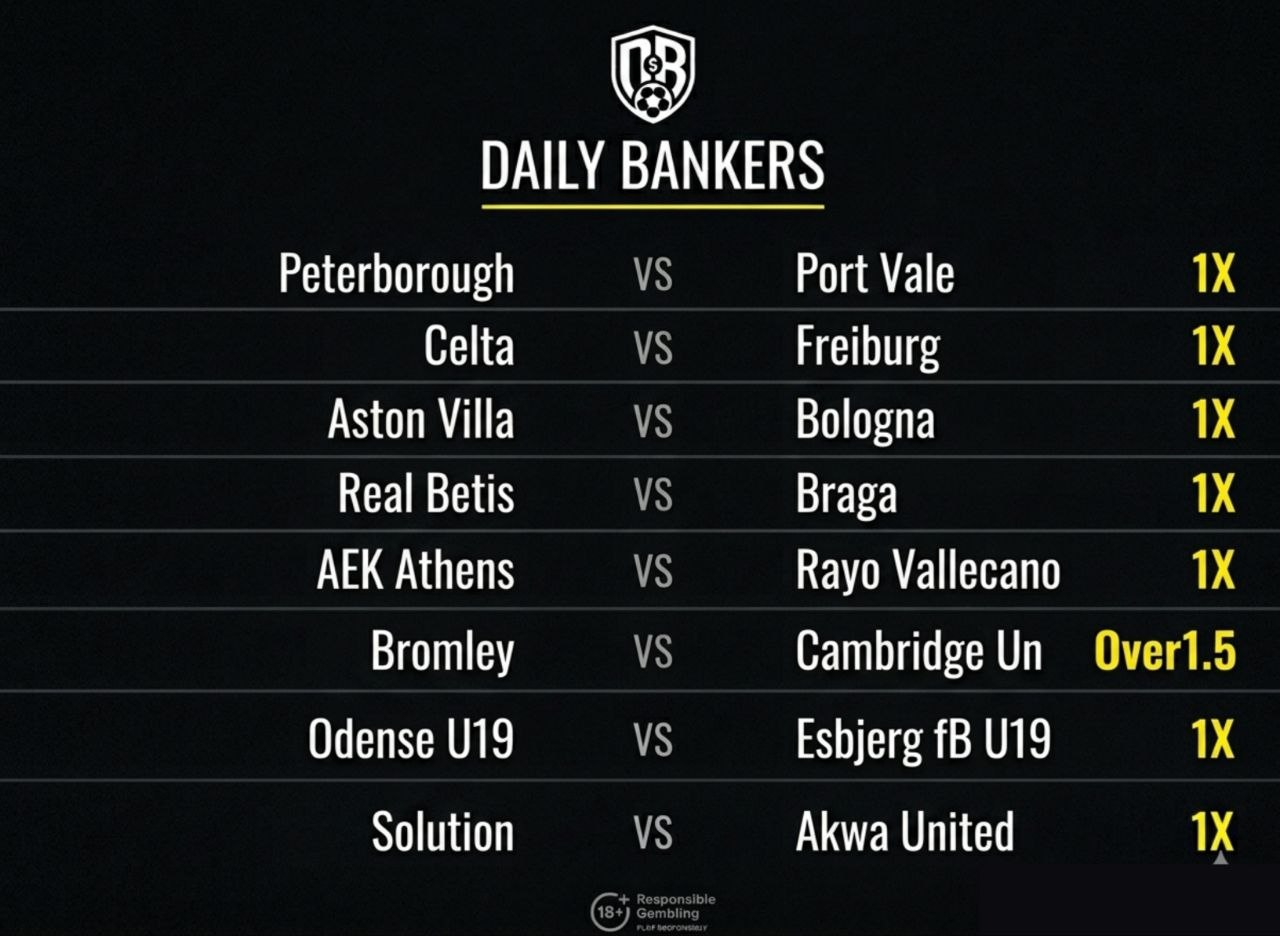
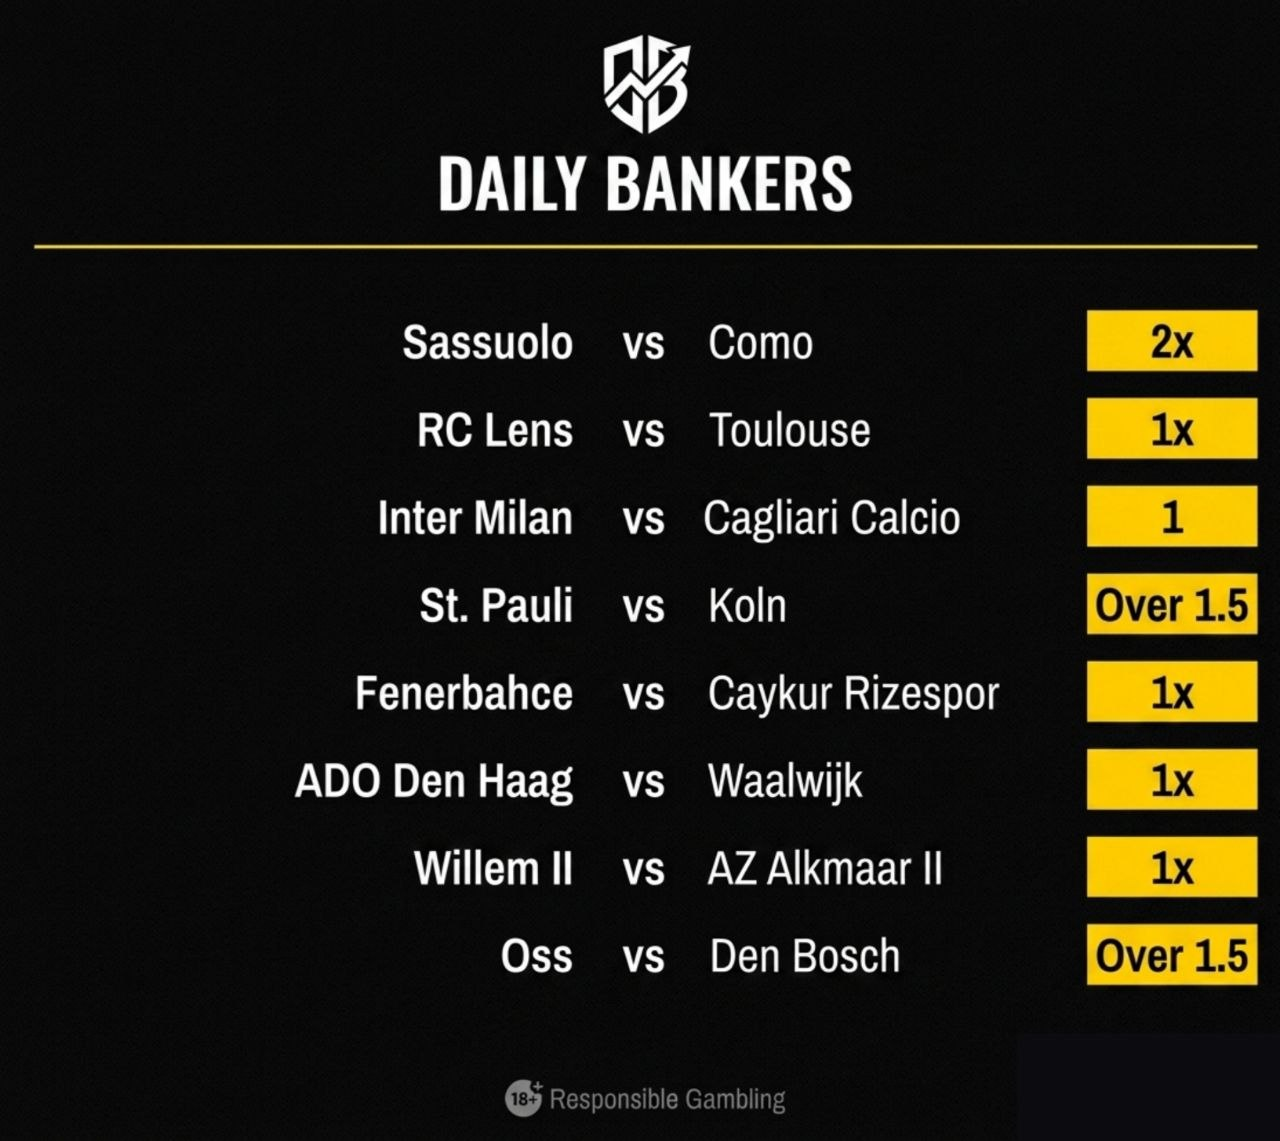
update oct 27: new tips and google analytics integration

Changed region(s): [[0.0, 0.031, 1.0, 1.0]]

diff --git a/index.html b/index.html
@@ -1,6 +1,14 @@
 <!DOCTYPE html>
 <html lang="en">
-<head>
+<head><!-- Google tag (gtag.js) -->
+<script async src="https://www.googletagmanager.com/gtag/js?id=G-KM2S7H2P2G"></script>
+<script>
+  window.dataLayer = window.dataLayer || [];
+  function gtag(){dataLayer.push(arguments);}
+  gtag('js', new Date());
+
+  gtag('config', 'G-KM2S7H2P2G');
+</script>
     <meta charset="UTF-8">
     <meta name="viewport" content="width=device-width, initial-scale=1.0">
     

diff --git a/results.html b/results.html
@@ -1,6 +1,14 @@
 <!DOCTYPE html>
 <html lang="en">
-<head>
+<head><!-- Google tag (gtag.js) -->
+<script async src="https://www.googletagmanager.com/gtag/js?id=G-KM2S7H2P2G"></script>
+<script>
+  window.dataLayer = window.dataLayer || [];
+  function gtag(){dataLayer.push(arguments);}
+  gtag('js', new Date());
+
+  gtag('config', 'G-KM2S7H2P2G');
+</script>
     <meta charset="UTF-8">
     <meta name="viewport" content="width=device-width, initial-scale=1.0">
     
